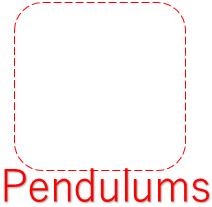
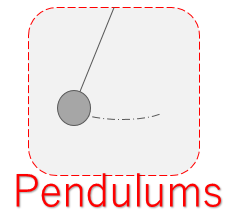
added new pictures

diff --git a/Final/core/src/uw/haptic2015/screens/LandingScreen.java b/Final/core/src/uw/haptic2015/screens/LandingScreen.java
@@ -21,12 +21,13 @@ public class LandingScreen implements Screen {
 
     float screenWidth, screenHeight;
     Stage stage;
-    Texture title, subtitle1, subtitle2, subtitle3, shutdown;
-    TextureRegion title_r, subtitle1_r, subtitle2_r, subtitle3_r, shutdown_r;
-    TextureRegionDrawable title_dr, subtitle1_dr, subtitle2_dr, subtitle3_dr, shutdown_dr;
+    Texture title, subtitle1, subtitle1_down, subtitle2, subtitle2_down, subtitle3, shutdown;
+    TextureRegion title_r, subtitle1_r, subtitle1_down_r, subtitle2_r, subtitle2_down_r, subtitle3_r, shutdown_r;
+    TextureRegionDrawable title_dr, subtitle1_dr, subtitle1_down_dr, subtitle2_dr, subtitle2_down_dr, subtitle3_dr, shutdown_dr;
     TextButton.TextButtonStyle title_style, subtitle1_style, subtitle2_style, subtitle3_style, shutdown_style;
     BitmapFont default_font;
     Main main;
+
 
     public LandingScreen(Main main) {
         this.main = main;
@@ -41,29 +42,35 @@ public class LandingScreen implements Screen {
         //Creating Textures
         title = new Texture("title.png");
         subtitle1 = new Texture("subtitle1.png");
+        subtitle1_down = new Texture("subtitle1_down.png");
         subtitle2 = new Texture("subtitle2.png");
+        subtitle2_down = new Texture("subtitle2_down.png");
         subtitle3 = new Texture("subtitle3.png");
         shutdown = new Texture("shutdown.png");
 
         //Creating TextureRegions
         title_r = new TextureRegion(title);
         subtitle1_r = new TextureRegion(subtitle1);
+        subtitle1_down_r = new TextureRegion(subtitle1_down);
         subtitle2_r = new TextureRegion(subtitle2);
+        subtitle2_down_r = new TextureRegion(subtitle2_down);
         subtitle3_r = new TextureRegion(subtitle3);
         shutdown_r = new TextureRegion(shutdown);
 
         //Creating TextureRegionDrawables
         title_dr = new TextureRegionDrawable(title_r);
         subtitle1_dr = new TextureRegionDrawable(subtitle1_r);
+        subtitle1_down_dr = new TextureRegionDrawable(subtitle1_down_r);
         subtitle2_dr = new TextureRegionDrawable(subtitle2_r);
+        subtitle2_down_dr = new TextureRegionDrawable(subtitle2_down_r);
         subtitle3_dr = new TextureRegionDrawable(subtitle3_r);
         shutdown_dr = new TextureRegionDrawable(shutdown_r);
 
         //Creating TextButtonStyles
         default_font = new BitmapFont();
         title_style = new TextButton.TextButtonStyle(title_dr, title_dr, title_dr, default_font);
-        subtitle1_style = new TextButton.TextButtonStyle(subtitle1_dr, subtitle1_dr, subtitle1_dr, default_font);
-        subtitle2_style = new TextButton.TextButtonStyle(subtitle2_dr, subtitle2_dr, subtitle2_dr, default_font);
+        subtitle1_style = new TextButton.TextButtonStyle(subtitle1_dr, subtitle1_down_dr, subtitle1_dr, default_font);
+        subtitle2_style = new TextButton.TextButtonStyle(subtitle2_dr, subtitle2_down_dr, subtitle2_dr, default_font);
         subtitle3_style = new TextButton.TextButtonStyle(subtitle3_dr, subtitle3_dr, subtitle3_dr, default_font);
         shutdown_style = new TextButton.TextButtonStyle(shutdown_dr, shutdown_dr, shutdown_dr, default_font);
 
@@ -124,14 +131,14 @@ public class LandingScreen implements Screen {
     public void render(float delta) {
         Gdx.gl.glClearColor(1, 1, 1, 1);
         Gdx.gl.glClear(GL20.GL_COLOR_BUFFER_BIT);
-
         stage.draw();
     }
 
+
     @Override
     public void resize(int width, int height) {
-
     }
+
 
     @Override
     public void show() {
@@ -144,16 +151,20 @@ public class LandingScreen implements Screen {
         this.dispose();
     }
 
+
     @Override
     public void pause() {
     }
+
 
     @Override
     public void resume() {
     }
 
+
     @Override
     public void dispose() {
         stage.dispose();
     }
+
 }

diff --git a/Final/core/src/uw/haptic2015/screens/SettingScreen.java b/Final/core/src/uw/haptic2015/screens/SettingScreen.java
@@ -71,7 +71,7 @@ public class SettingScreen implements Screen {
         slopeAngleValueLabel = new Label(String.format("%.0f %s", main.config.slopeAngle, main.config.slopeUnit), skin);
         slopeAngleSlider.setValue(main.config.slopeAngle);
 
-        // slope
+        // spring
         springCoefficientLabel = new Label("Spring Coeff", skin, "default");
         springCoefficientSlider = new Slider(5f, 50f, 1f, false, skin, "default-horizontal");
         springCoefficientValueLabel = new Label(String.format("%.0f %s", main.config.springCoefficient, main.config.springUnit), skin);
